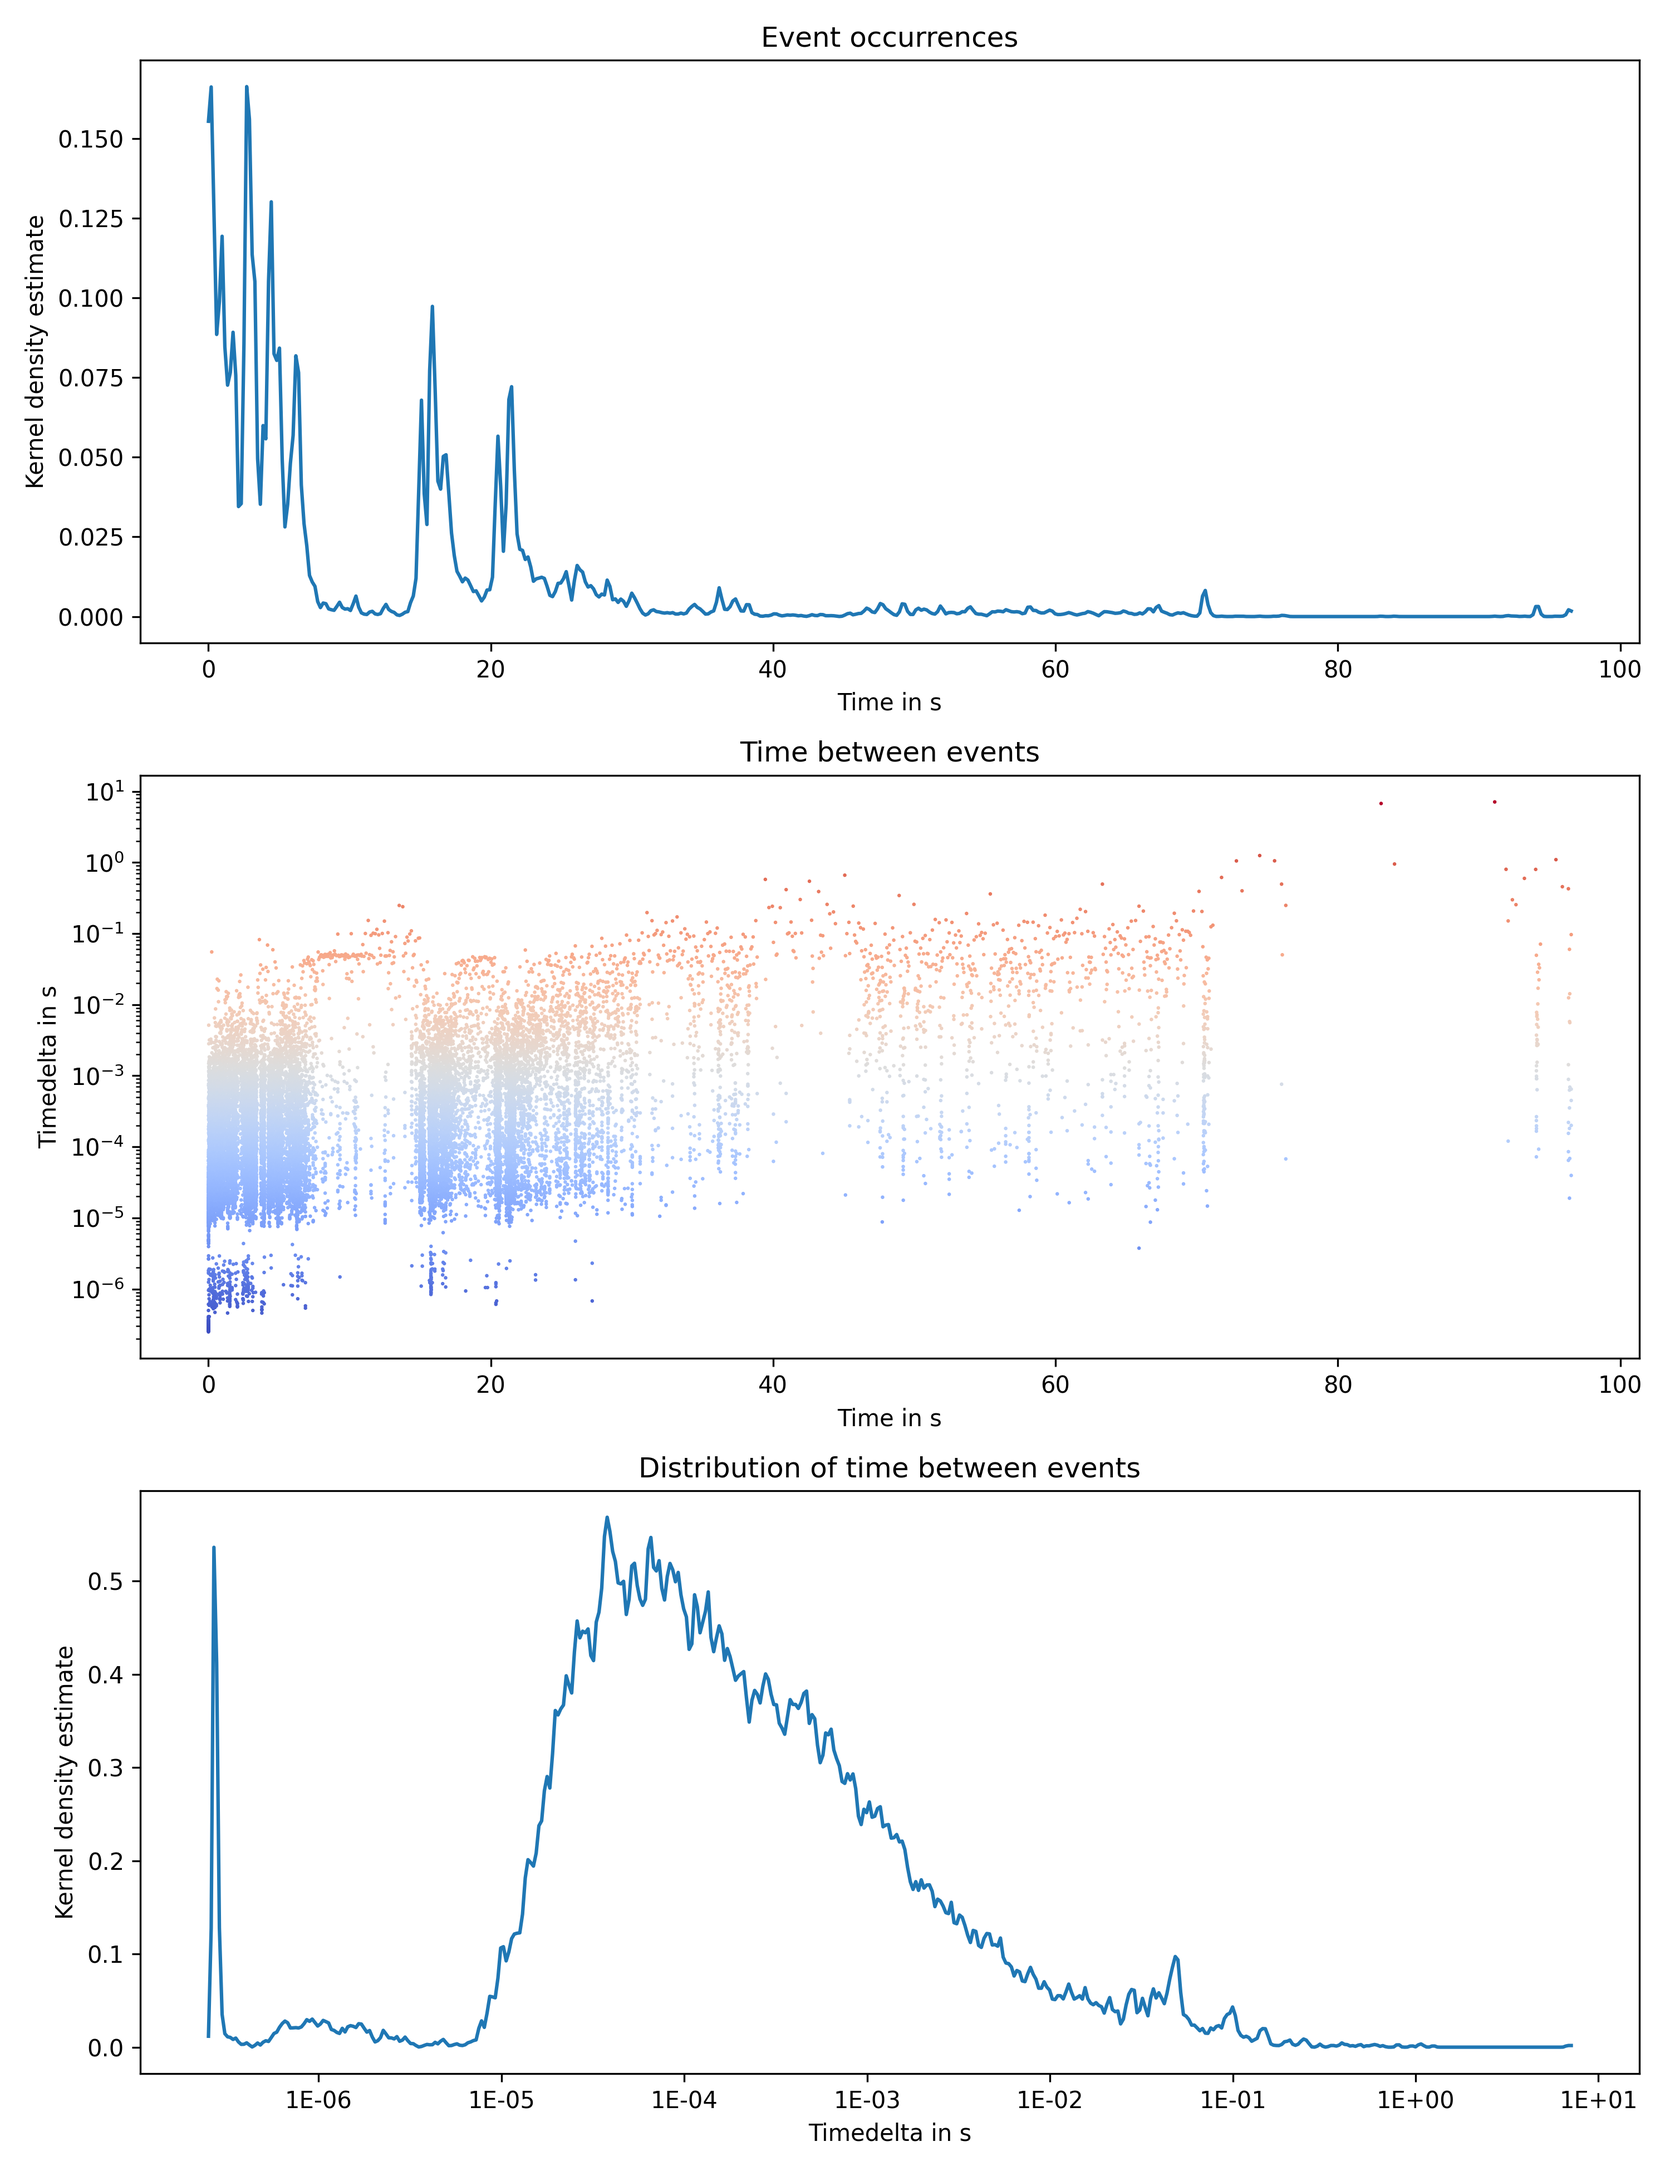
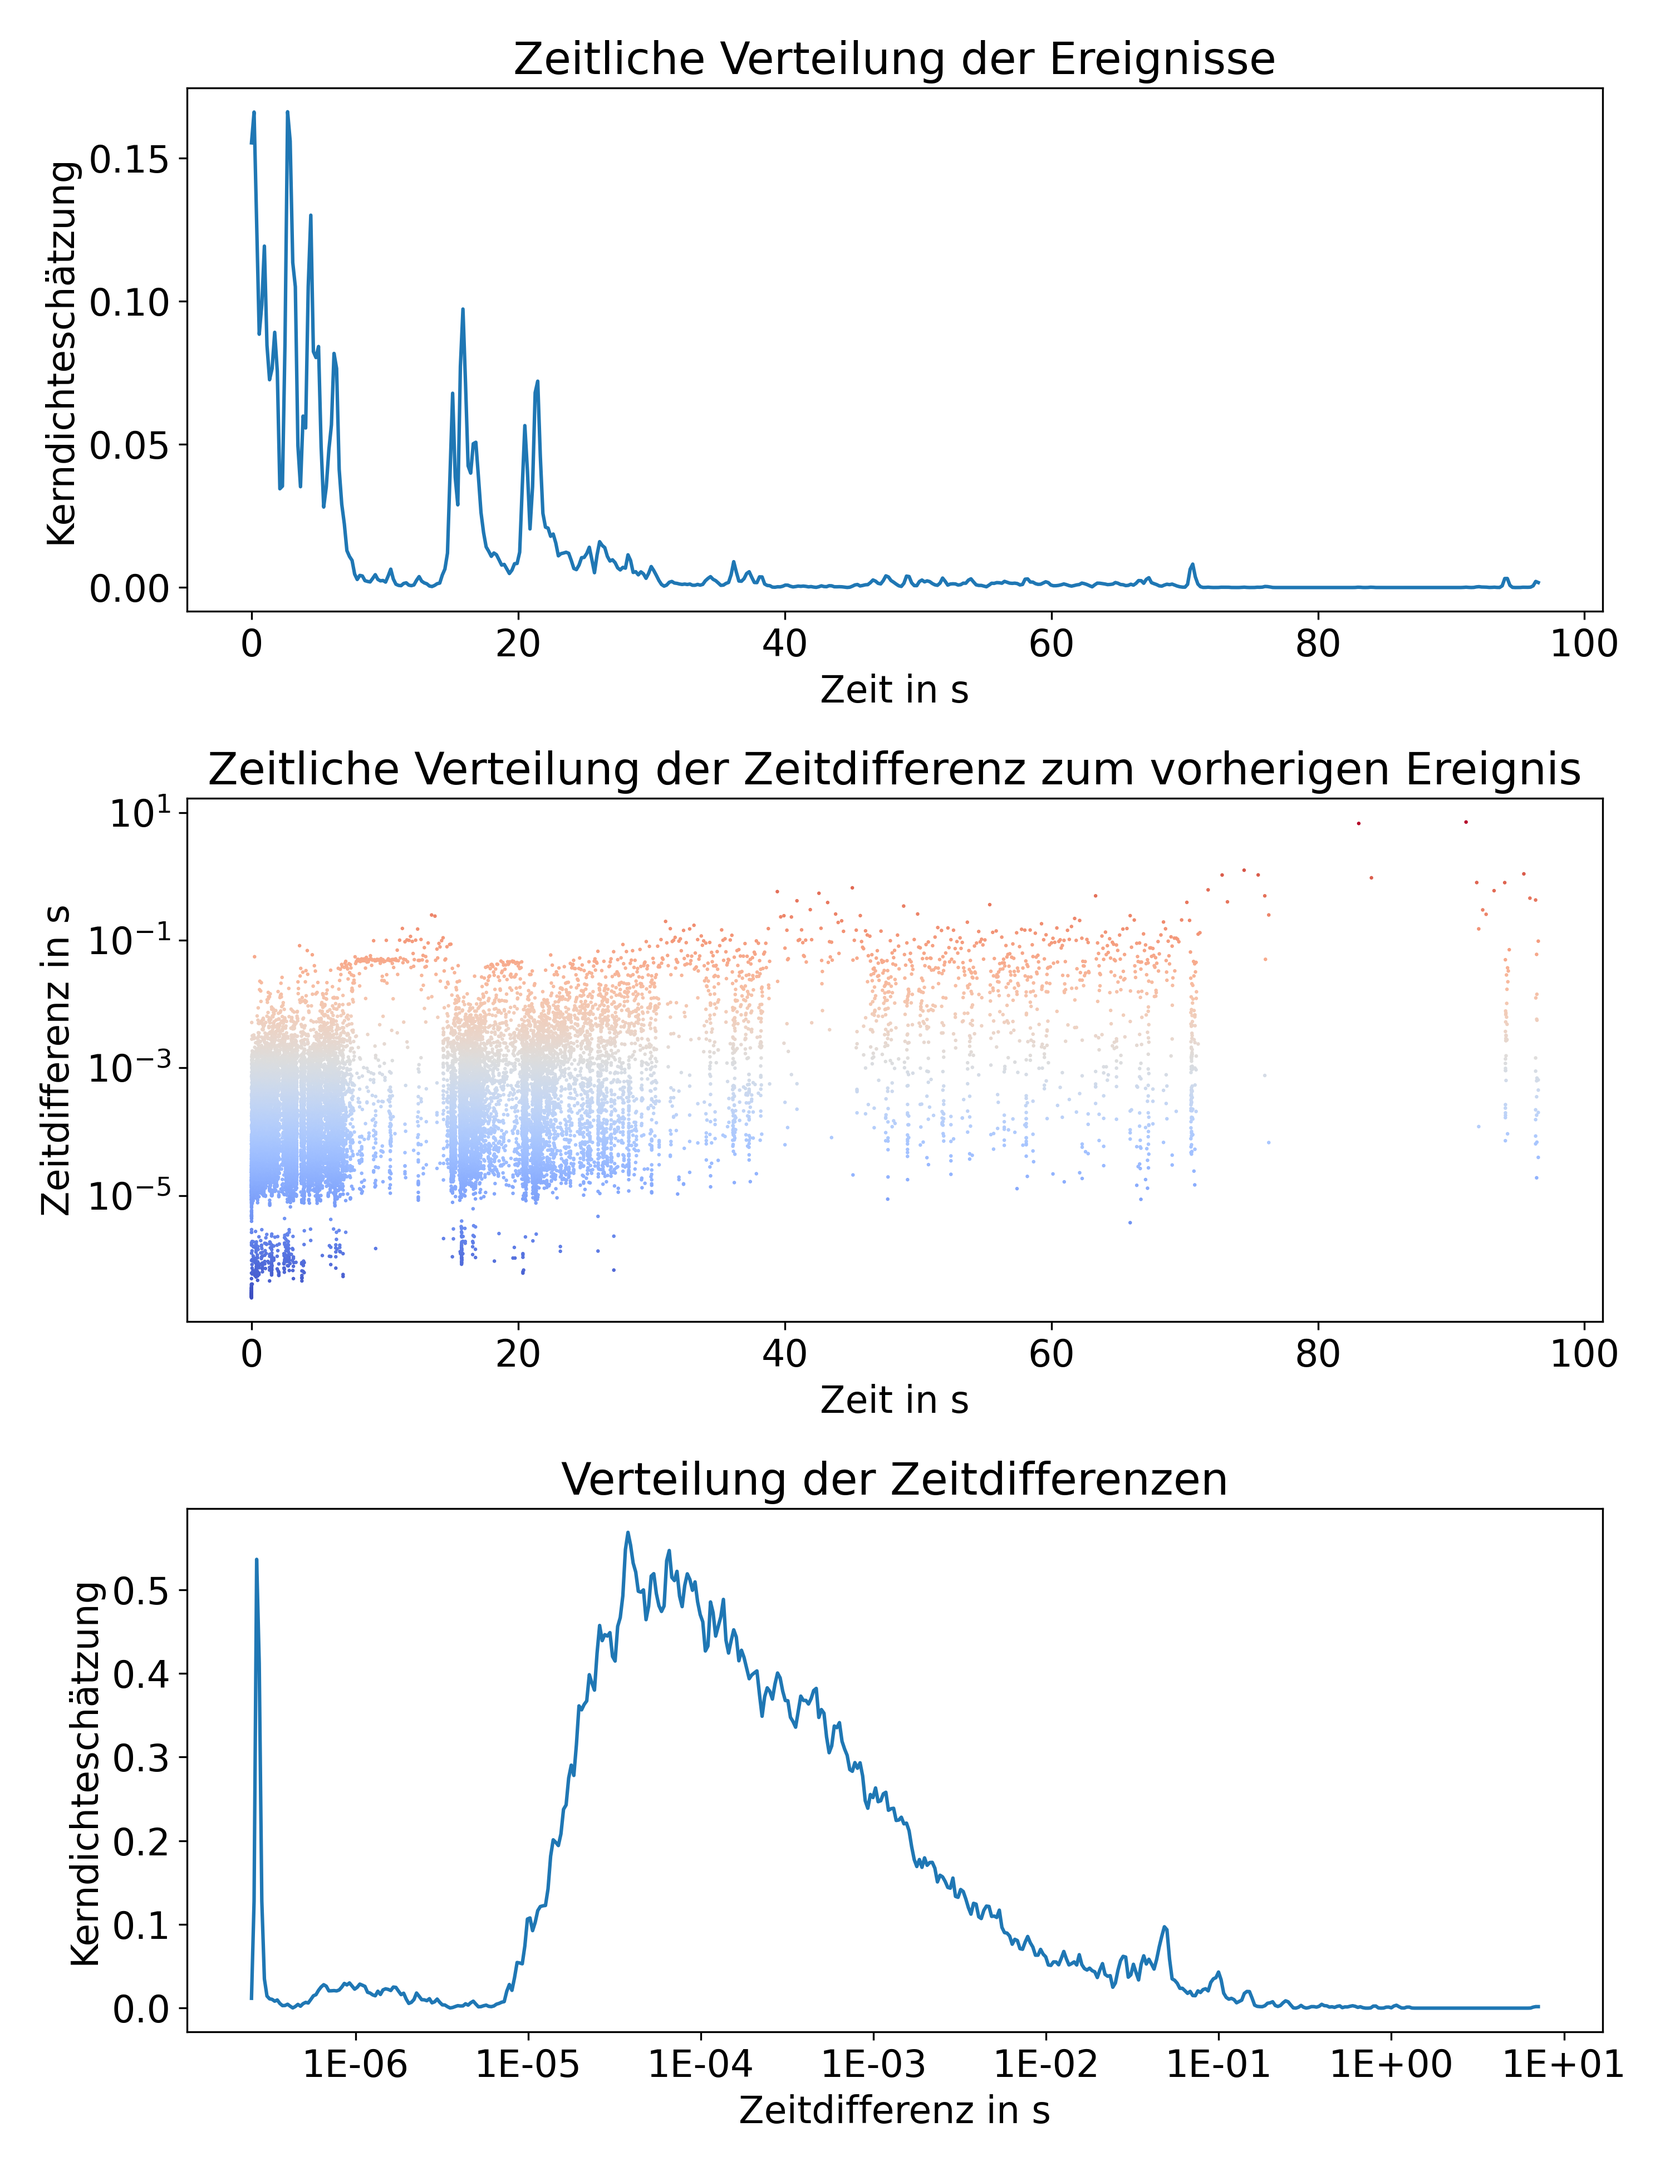
Updated testdata

diff --git a/testdata/sample/PageScraper.java b/testdata/sample/PageScraper.java
@@ -1,0 +1,151 @@
+import java.io.BufferedWriter;
+import java.io.FileWriter;
+import java.io.IOException;
+import java.net.URI;
+import java.net.http.*;
+import java.util.*;
+import java.util.function.Function;
+import java.util.stream.Collectors;
+
+public class PageScraper {
+
+    public static void main(final String[] args) throws Exception {
+        final String[] urls = {
+                "https://de.wikipedia.org/wiki/Technische_Universit%C3%A4t_Dresden",
+                "https://en.wikipedia.org/wiki/TU_Dresden",
+                "https://da.wikipedia.org/wiki/Technische_Universit%C3%A4t_Dresden",
+                "https://es.wikipedia.org/wiki/Universidad_Polit%C3%A9cnica_de_Dresde",
+                "https://fr.wikipedia.org/wiki/Universit%C3%A9_technique_de_Dresde",
+                "https://it.wikipedia.org/wiki/Universit%C3%A0_tecnica_di_Dresda",
+                "https://nl.wikipedia.org/wiki/Technische_Universiteit_Dresden",
+                "https://pl.wikipedia.org/wiki/Uniwersytet_Techniczny_w_Dre%C5%BAnie",
+                "https://ru.wikipedia.org/wiki/%D0%94%D1%80%D0%B5%D0%B7%D0%B4%D0%B5%D0%BD%D1%81%D0%BA%D0%B8%D0%B9_%D1%82%D0%B5%D1%85%D0%BD%D0%B8%D1%87%D0%B5%D1%81%D0%BA%D0%B8%D0%B9_%D1%83%D0%BD%D0%B8%D0%B2%D0%B5%D1%80%D1%81%D0%B8%D1%82%D0%B5%D1%82",
+                "https://zh.wikipedia.org/wiki/%E5%BE%B7%E7%B4%AF%E6%96%AF%E9%A1%BF%E5%B7%A5%E4%B8%9A%E5%A4%A7%E5%AD%A6",
+                "https://pt.wikipedia.org/wiki/Universidade_T%C3%A9cnica_de_Dresden"
+        };
+
+        final long start = System.currentTimeMillis();
+
+        int longestChars = -1;
+        String longest = null;
+
+        final Map<Character, Long> allChars = new HashMap<>();
+        final Map<String, Long> allWords = new HashMap<>();
+
+        for (final String url : urls) {
+            final String body = getPage(url);
+
+            if (body == null)
+                continue;
+
+            System.out.printf("Running %s\n", url);
+
+            final Map<Character, Long> chars = countChars(body);
+            final Map<String, Long> words = countStrings(body);
+
+            if (body.length() > longestChars) {
+                longestChars = body.length();
+                longest = url;
+            }
+
+            for (final Map.Entry<Character, Long> entry : chars.entrySet()) {
+                long value = allChars.getOrDefault(entry.getKey(), 0L);
+                value += entry.getValue();
+                allChars.put(entry.getKey(), value);
+            }
+
+            for (final Map.Entry<String, Long> entry : words.entrySet()) {
+                long value = allWords.getOrDefault(entry.getKey(), 0L);
+                value += entry.getValue();
+                allWords.put(entry.getKey(), value);
+            }
+
+            Thread.sleep(500);
+        }
+
+        System.out.printf("Longest page %s\n", longest);
+
+        final List<Map.Entry<Character, Long>> topFiveCharacters = getTop(allChars, 5);
+        System.out.printf("Global most used chars %s\n", topFiveCharacters);
+
+        final List<Map.Entry<String, Long>> topFiveWords = getTop(allWords, 5);
+        System.out.printf("Global most used words %s\n", topFiveWords);
+
+        writeMapToFile(allChars, "allchars.txt");
+        writeMapToFile(allWords, "allwords.txt");
+
+        final long end = System.currentTimeMillis();
+
+        System.out.printf("Elapsed: %dms\n", end - start);
+    }
+
+    private static String getPage(final String url) {
+        final HttpClient client = HttpClient.newHttpClient();
+
+        try {
+            final URI uri = new URI(url);
+            final HttpRequest request = HttpRequest.newBuilder()
+                    .uri(uri)
+                    .build();
+
+            final HttpResponse<String> response = client.send(request, HttpResponse.BodyHandlers.ofString());
+            return response.body();
+        } catch (Exception ex) {
+            System.err.println(ex.getMessage());
+            return null;
+        }
+    }
+
+    private static Map<Character, Long> countChars(final String body) {
+        final Map<Character, Long> chars = body.chars()
+                .mapToObj(i -> (char) i)
+                .collect(Collectors.groupingBy(Function.identity(), Collectors.counting()));
+
+        System.out.printf("Number of unique chars: %d\n", chars.size());
+
+        final List<Map.Entry<Character, Long>> topFiveCharacters = getTop(chars, 5);
+        System.out.printf("Most used chars %s\n", topFiveCharacters);
+
+        return chars;
+    }
+
+    private static Map<String, Long> countStrings(final String body) {
+        final Map<String, Long> words = Arrays.stream(body.split("\\s+"))
+                .collect(Collectors.groupingBy(Function.identity(), Collectors.counting()));
+
+        System.out.printf("Number of unique words: %d\n", words.size());
+
+        final List<Map.Entry<String, Long>> topFiveWords = getTop(words, 5);
+        System.out.printf("Most used words %s\n", topFiveWords);
+
+        return words;
+    }
+
+    private static <T> List<Map.Entry<T, Long>> getTop(final Map<T, Long> allWords, final int amount) {
+        return allWords.entrySet().stream()
+                .sorted(Map.Entry.<T, Long>comparingByValue().reversed())
+                .limit(amount)
+                .collect(Collectors.toList());
+    }
+
+    private static <K extends Comparable<? super K>, V extends Comparable<? super V>> void writeMapToFile(final Map<K, V> map, final String filename) {
+        final Map<K, V> sorted = map.entrySet()
+                .stream()
+                .sorted(Map.Entry.<K, V>comparingByValue().reversed()
+                        .thenComparing(Map.Entry.comparingByKey()))
+                .collect(Collectors.toMap(
+                        Map.Entry::getKey,
+                        Map.Entry::getValue,
+                        (e1, e2) -> e1,
+                        LinkedHashMap::new));
+
+        try (final BufferedWriter writer = new BufferedWriter(new FileWriter(filename))) {
+            for (final Map.Entry<K, V> entry : sorted.entrySet()) {
+                writer.write(entry.getKey() + " = " + entry.getValue());
+                writer.newLine();
+            }
+        } catch (IOException ex) {
+            System.err.println(ex.getMessage());
+        }
+    }
+}

diff --git a/testdata/main.py b/testdata/main.py
@@ -1,6 +1,7 @@
 import heapq
 from collections import Counter
 
+import matplotlib
 import matplotlib.pyplot as plt
 import numpy as np
 from matplotlib.ticker import FuncFormatter
@@ -29,7 +30,11 @@ def main():
     print("Distances greater than 200us:", len([d for d in distance if d > 200e-6]))
     print("Distances greater than 1ms:", len([d for d in distance if d > 1e-3]))
 
-    """
+    total = 0
+    for line in data:
+        total += 16 + 8 + 4 + 4 + len(line[-1])
+    print(round(total / 1024 / 1024, ndigits=2), "MiB")
+
     addresses = [(int(d[3], 16), int(d[4][:-1], 10), d[5]) for d in data]
     areas = []
     count = 0
@@ -48,24 +53,26 @@ def main():
 
     # timestamps = [(t - tmin) / (tmax - tmin) for t in timestamps]
 
+    """
+    matplotlib.rcParams.update({'font.size': 16})
     fig, ax = plt.subplots(3, figsize=(10, 13), dpi=300)
 
     density = gaussian_kde(timestamps)
-    density.set_bandwidth(0.01)
+    density.set_bandwidth(0.005)
     xs = np.linspace(tmin, tmax, 500)
     ax[0].plot(xs, density(xs))
-    ax[0].set_title('Event occurrences')
-    ax[0].set_xlabel("Time in s")
-    ax[0].set_ylabel("Kernel density estimate")
+    ax[0].set_title('Zeitliche Verteilung der Ereignisse')
+    ax[0].set_xlabel("Zeit in s")
+    ax[0].set_ylabel("Kerndichteschätzung")
 
     tdistance = np.log10(distance)
 
     xs = timestamps[1:]
     ax[1].scatter(xs, distance, c=tdistance, s=0.3, cmap="coolwarm")
-    ax[1].set_title('Time between events')
+    ax[1].set_title('Zeitliche Verteilung der Zeitdifferenz zum vorherigen Ereignis')
     ax[1].set_yscale('log')
-    ax[1].set_xlabel("Time in s")
-    ax[1].set_ylabel("Timedelta in s")
+    ax[1].set_xlabel("Zeit in s")
+    ax[1].set_ylabel("Zeitdifferenz in s")
 
     density = gaussian_kde(tdistance)
     density.set_bandwidth(0.01)
@@ -73,9 +80,9 @@ def main():
     xs = np.linspace(min(tdistance), max(tdistance), 500)
     ax[2].plot(xs, density(xs))
     ax[2].xaxis.set_major_formatter(FuncFormatter(lambda y, _: '{:.0E}'.format(10**y)))
-    ax[2].set_title('Distribution of time between events')
-    ax[2].set_xlabel("Timedelta in s")
-    ax[2].set_ylabel("Kernel density estimate")
+    ax[2].set_title('Verteilung der Zeitdifferenzen')
+    ax[2].set_xlabel("Zeitdifferenz in s")
+    ax[2].set_ylabel("Kerndichteschätzung")
 
     fig.tight_layout()
     plt.show()
